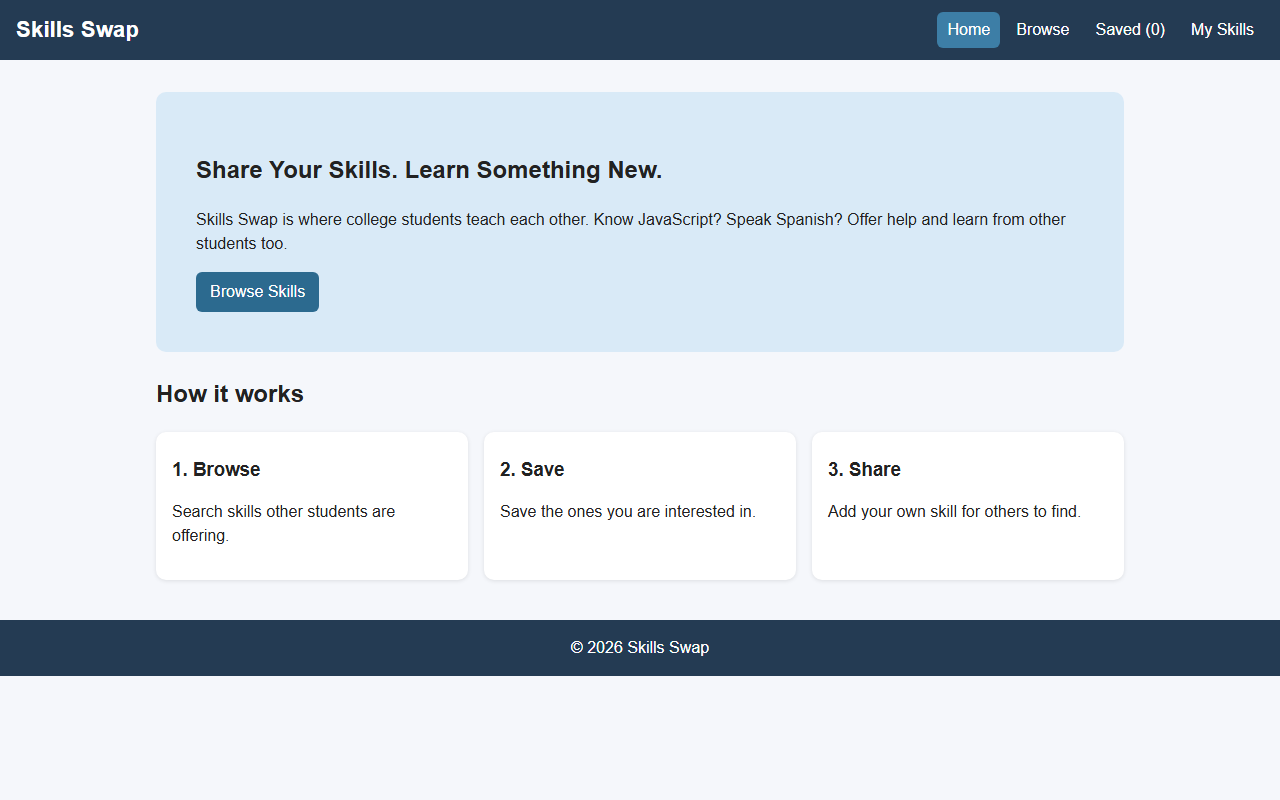
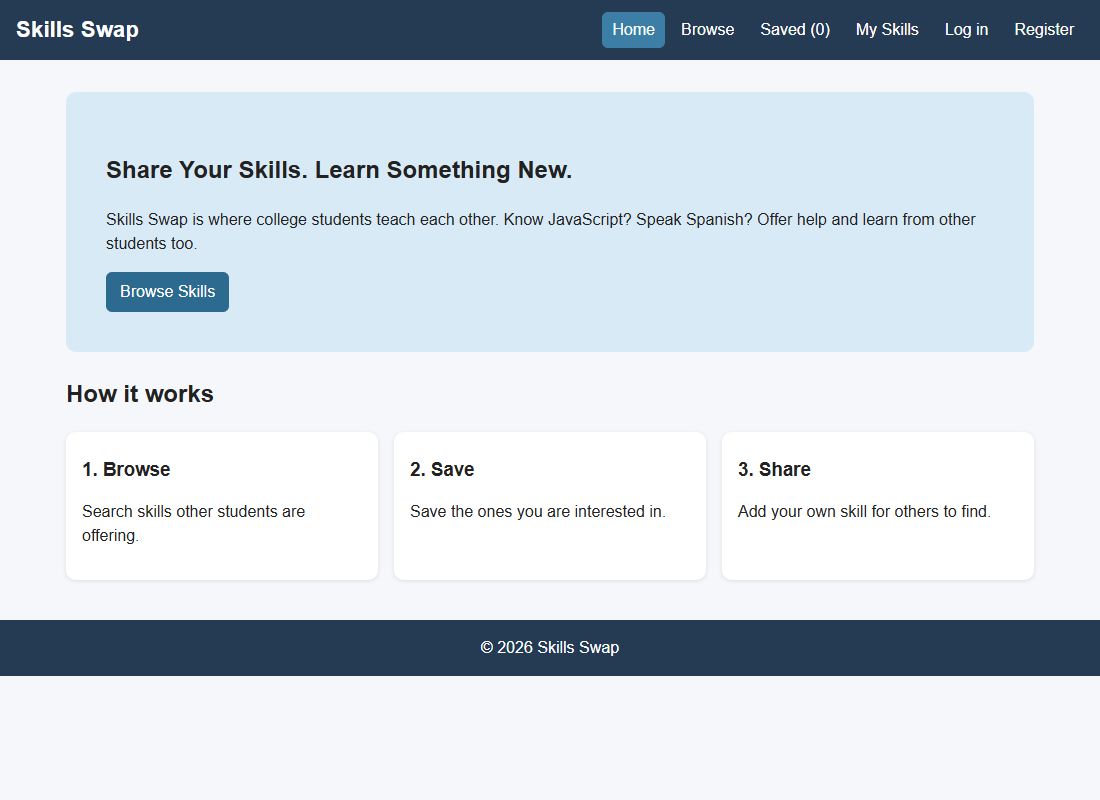
Update README, screenshots, Vercel catch-all API route, dev origin fix, submission document

diff --git a/server/index.js b/server/index.js
@@ -2,6 +2,9 @@
 import { createApp } from "./app.js";
 import { createDb } from "./db.js";
 
+// The Vite dev server (5173) proxies /api here, so browser requests carry its origin.
+process.env.ALLOWED_ORIGIN ??= "http://localhost:5173";
+
 const app = createApp(await createDb());
 const port = process.env.PORT || 3001;
 app.listen(port, () => console.log(`API listening on http://localhost:${port}`));

diff --git a/api/[...path].js b/api/[...path].js
@@ -1,4 +1,4 @@
-// Vercel serverless entry. vercel.json rewrites /api/* here.
+// Vercel serverless entry. Catch-all: Vercel sends every /api/* request here.
 import { createApp } from "../server/app.js";
 import { createDb } from "../server/db.js";
 

diff --git a/README.md b/README.md
@@ -1,84 +1,131 @@
-# Skills Swap (Final MVP)
+# Skills Swap (Final Project)
 
-A React single-page app where college students share skills and learn from each other.
+A React app where college students share skills and learn from each other.
+
+- GitHub: https://github.com/albertovarg5/skills-swap-final-mvp
+- Live site: https://skills-swap-final-mvp.vercel.app
+
+## Problem
+Students have useful skills (coding, languages, music) but no simple place to offer them or find help. Skills Swap lets anyone browse skills, and lets registered students save skills and post their own.
 
 ## Features
-- Browse skills, search by keyword, filter by category
+- Browse skills, search by keyword, filter by category (public, no account needed)
 - Skill details page with related books from the [Open Library Search API](https://openlibrary.org/search.json)
-- Save / unsave skills and view them on the Saved page
-- Add your own skill and see it on My Skills
+- Register, log in, log out (real JWT authentication)
+- Save / unsave skills (saved in the database, per user)
+- Add your own skills (My Skills)
+- Loading messages, error messages, and a **Retry** button when a request fails
+- Responsive, mobile-first layout with a mobile menu
+
+## Technology
+| Part | Tools |
+|---|---|
+| Frontend | React 19, React Router, Context API (`AuthContext`, `SkillsContext`), `useState`/`useEffect`, PropTypes, Vite |
+| Backend | Express (Node.js), runs as a Vercel Serverless Function in `api/` |
+| Database | PostgreSQL (Neon via Vercel). Local development uses PGlite (embedded Postgres), so no install is needed |
+| Auth/Security | `jsonwebtoken`, `bcryptjs`, `helmet`, `express-rate-limit`, `cookie-parser` |
+| Testing | Vitest, React Testing Library, Supertest, ESLint |
+
+**Why this architecture?** The app is already on Vercel, so the API lives in the same project (same domain). This avoids a second host and makes secure cookies and CSRF protection simple: there is no cross-site traffic at all. Postgres is the standard choice for users and saved skills; the Vercel Marketplace gives a free managed Neon database.
 
 ## Routes
-`/` Home, `/skills` Browse, `/skills/:id` Details, `/saved` Saved, `/my-skills` My Skills, `*` 404
+| Route | Page | Access |
+|---|---|---|
+| `/` | Home | Public |
+| `/skills` | Browse skills | Public |
+| `/skills/:id` | Skill details + related books | Public |
+| `/login` | Log in | Public |
+| `/register` | Create account | Public |
+| `/saved` | Saved skills | **Protected** |
+| `/my-skills` | My skills + add form | **Protected** |
+| `*` | 404 page | Public |
 
-## Tech
-React, React Router, Context API (`useContext`), `useState` / `useEffect`, Vite, Vitest + React Testing Library.
+Visitors who open a protected page are sent to `/login` and returned to the page after logging in.
 
-## Live Site
-https://skills-swap-final-mvp.vercel.app (deployed on Vercel from the `main` branch of this GitHub repo; every push redeploys automatically).
+API endpoints (same origin, `/api`): `POST /auth/register`, `POST /auth/login`, `POST /auth/logout`, `GET /auth/me`, `GET /skills`, `POST /skills`*, `GET /saved`*, `PUT /saved/:id`*, `DELETE /saved/:id`* (*requires login).
 
-## Screenshots
-Home page:
+## How authentication works
+1. Register or log in. The server checks the input, hashes the password with bcrypt (or compares it), and creates a JWT that expires in **1 hour**.
+2. The JWT is sent in an **HttpOnly cookie** (`Secure` in production, `SameSite=Strict`). JavaScript cannot read it, and it is never put in localStorage.
+3. On every page load, `AuthContext` calls `GET /api/auth/me`. The server verifies the JWT signature and expiry, so sessions survive a refresh.
+4. If the token expires while the user is using the app, the next request gets a 401. The app logs the user out and shows "Your session expired. Please log in again."
+5. Logout clears the cookie on the server.
+6. Every private endpoint verifies the JWT and only returns/changes the logged-in user's own data.
 
-![Home](screenshots/home.png)
+## External API
+`src/services/bookService.js` calls Open Library for books related to a skill. It handles: loading state, errors (including network failures), empty results ("No related books found"), missing covers ("No cover"), missing authors ("Unknown author"), a **Retry** button, and stale responses (an `AbortController` plus an ignore flag stop an old request from replacing a newer one).
 
-Browse skills (search and category filter):
+## Security measures
+- Passwords hashed with bcrypt on the server; never returned by the API
+- JWT verified on the server (HS256 only, expiry checked); secret only in an environment variable
+- HttpOnly + Secure + SameSite=Strict cookie; token never in localStorage
+- **CSRF**: (1) requests from another `Origin` are rejected, (2) every state-changing request must send an `X-CSRF-Token` header that matches a secret inside the JWT, (3) SameSite=Strict cookie
+- **CORS**: no CORS headers are sent, so only the same origin can call the API
+- Rate limiting on login and register (10 attempts per 15 minutes per IP)
+- Input validation on the client and again on the server (`src/validation.js` is shared)
+- **XSS**: React escapes all text; no `dangerouslySetInnerHTML`; external links are not built from user data; CSP and other security headers (`helmet` for the API, `vercel.json` for the site)
+- Generic server error messages (details only in server logs); same message for wrong email and wrong password
+- Parameterized SQL queries (no string-built SQL); 10 KB request size limit
+- `.env` files are git-ignored; no secrets in `VITE_` variables
 
-![Browse](screenshots/skills.png)
-
-Skill details with related books from Open Library:
-
-![Details](screenshots/details.png)
-
-Login and a registration validation error:
-
-![Login](screenshots/login.png)
-
-![Register error](screenshots/register-error.png)
-
-Mobile view (narrow screen, cards stack in one column):
-
-![Mobile](screenshots/browse-mobile.png)
-
-## Run it
+## Local setup
+Requires Node.js 20+.
 ```
 npm install
-npm run dev
-npm test
+npm run dev:all      # starts the API (port 3001) and the React app (http://localhost:5173)
+```
+No `.env` is needed locally (embedded database, random dev JWT secret; data resets when the API restarts). To keep data between restarts set `PGLITE_DIR=.data`.
+
+### Environment variables (names only)
+| Name | Where | Purpose |
+|---|---|---|
+| `DATABASE_URL` | Server (required in production) | Postgres connection string |
+| `JWT_SECRET` | Server (required in production) | Random string, 32+ characters |
+| `ALLOWED_ORIGIN` | Server (optional) | Site origin for the CSRF origin check, e.g. the Vercel URL |
+
+See `.env.example`. These are **not** `VITE_` variables, so they never reach the browser.
+
+### Commands
+```
+npm run dev:all   # API + frontend
+npm test          # all tests
+npm run lint      # ESLint
+npm run build     # production build
 ```
 
-## Reused from earlier assignments
-The skill data shape (title, category, price, description), the category filter idea, and the color palette.
-The skill data shape is shared with the Unit 9 Express backend, which is now a real Express + Postgres API (`server/`).
+## Tests
+Last run on my computer: **73 tests passed, 0 failed** (3 test files), `npm run lint` with no errors, `npm run build` succeeded.
+- `server/app.test.js` (25): registration validation, bcrypt hash stored, login errors, logout, JWT expired/forged/`alg:none`, rate limit, protected endpoints, per-user saved skills, CSRF (missing/wrong token, bad origin), no CORS headers, safe errors
+- `src/test/app.test.jsx` (28): the original 14 MVP tests plus Retry, stale responses, missing covers/authors, failed saves, price/XSS input, mobile menu
+- `src/test/auth.test.jsx` (20): register/login/logout UI, validation, protected routes and redirects, session restore after refresh, expired token, no token in localStorage
 
-## Backend and security
-- Express 5 API: `/api/auth/register|login|logout|me`, `/api/skills`, `/api/saved`.
-- Passwords hashed with bcrypt; sessions are a JWT in an `HttpOnly`, `SameSite` cookie (never in localStorage).
-- CSRF token required on every state-changing request, Origin check, rate limiting on auth routes, `helmet` + CSP headers.
-- All SQL is parameterized; React escapes user text (XSS test included).
-- Frontend: `AuthContext`, login/register pages with validation, protected routes (redirect back after login), API retry, PropTypes.
+The frontend tests run against the real Express API with an in-memory database (only Open Library is mocked). I also checked the main flows by hand in a real Edge browser (register, login, logout, protected redirect, saved skills after refresh, Retry with Open Library blocked, mobile menu).
 
-## Run it with the backend
-```
-cp .env.example .env     # set JWT_SECRET (32+ chars)
-npm run dev:all          # API on :3001 + Vite on :5173
-```
-Without `DATABASE_URL` the API uses an in-memory PGlite database (data resets on restart). Set `DATABASE_URL` to use real Postgres.
+## Screenshots
+Home / Browse / Details / My Skills / Login / Retry error / Mobile:
+
+![Home](screenshots/home.png)
+![Browse](screenshots/skills.png)
+![Details](screenshots/details.png)
+![My Skills](screenshots/my-skills.png)
+![Login](screenshots/login.png)
+![Register error](screenshots/register-error.png)
+![Retry](screenshots/retry-error.png)
+![Mobile](screenshots/browse-mobile.png)
 
 ## Deployment (Vercel)
-1. Repo imported in Vercel (Vite preset, build `npm run build`, output `dist`).
-2. `vercel.json` sends `/api/*` to the serverless function in `api/index.js` and every other route to `index.html`.
-3. Required environment variables in Vercel: `DATABASE_URL` (hosted Postgres, e.g. Neon), `JWT_SECRET` (32+ random chars), `NODE_ENV=production`.
+1. Vercel project is connected to the GitHub repo (build `npm run build`, output `dist`).
+2. In the Vercel dashboard: **Storage → Create Database → Neon (Postgres)** and connect it to this project. This adds `DATABASE_URL`.
+3. **Settings → Environment Variables**: add `JWT_SECRET` (random, 32+ chars) for Production (and Preview).
+4. Optional: add `ALLOWED_ORIGIN` = `https://skills-swap-final-mvp.vercel.app`.
+5. Redeploy. The tables and the 6 sample skills are created automatically on the first request.
+6. `vercel.json` sends all non-API routes to `index.html` (so refresh on `/skills/1` works) and sets security headers. `api/[...path].js` handles every `/api/*` request.
 
-## Testing
-`npm test` runs 73 tests (Vitest, React Testing Library, Supertest): API registration/login/JWT/CSRF/rate limit, protected routes, session expiry, validation, XSS, retry, search/filter, saving, and the books API error case. `npm run lint` and `npm run build` pass.
-
-## Known Issues
-- Free-tier serverless cold starts make the first request slow.
-- My Skills can add skills but cannot edit or delete them yet.
-- Some books have no cover ("No cover" box); if Open Library is down an error message shows instead of books.
-
-## Future Improvements
-- Edit and delete buttons for My Skills.
-- Messaging / request help, and reviews after a session.
-- Password reset by email.
+## Known limitations / future improvements
+- The 1-hour session has no refresh token; users log in again after it expires.
+- The rate limiter is in memory, so on serverless it is per instance (a shared store such as Redis would be stronger).
+- "Email already exists" is shown at registration (a small account-enumeration trade-off for a clearer message).
+- No email verification or password reset.
+- Skills cannot be edited or deleted yet.
+- Contact between students is not built yet (messages/requests).
+- Open Library search quality varies, and some books have no cover.
